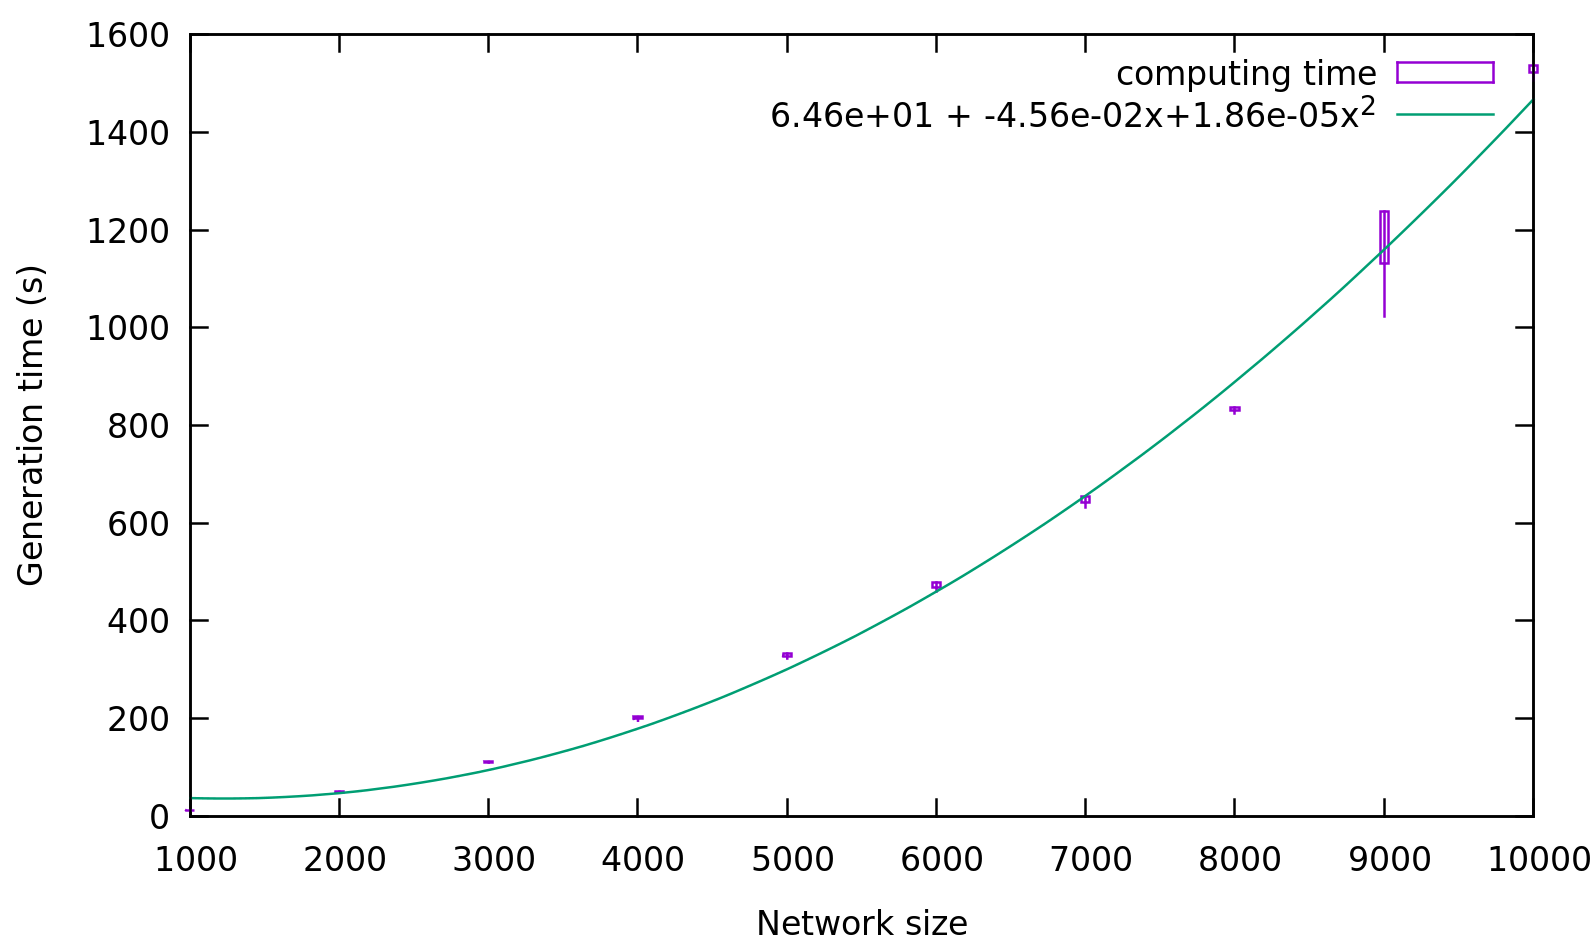
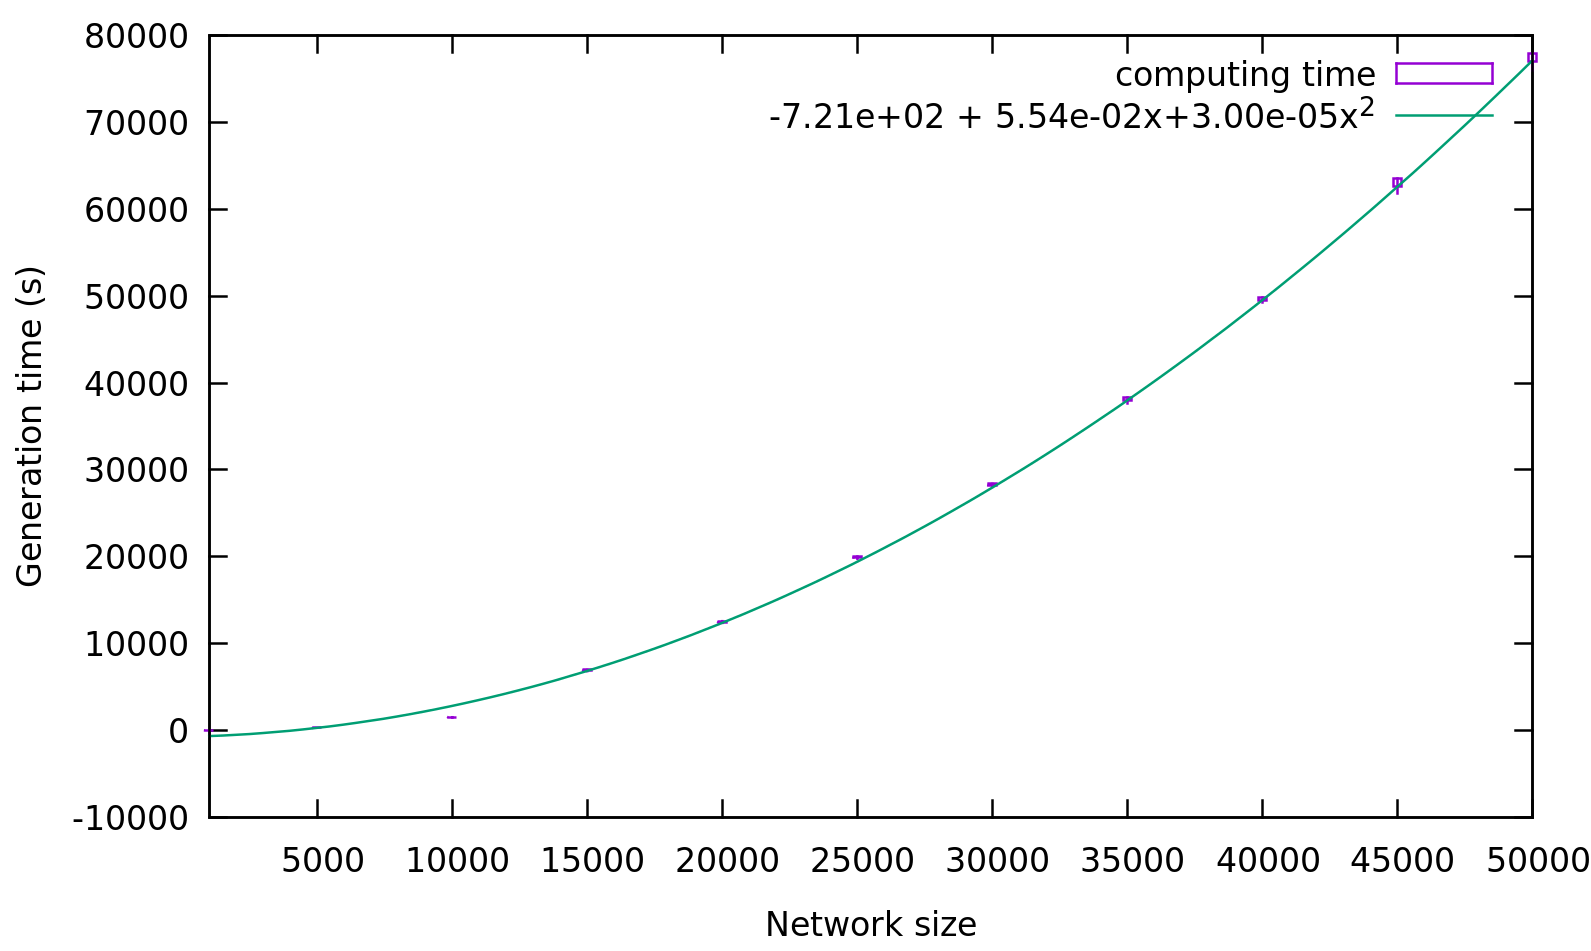
number of ASes in Readme

diff --git a/Readme.md b/Readme.md
@@ -20,7 +20,7 @@ Code ran on an Intel Core i7-5500U CPU @ 2.40GHz, and memory usage was negligibl
 
 ![Generation time](images/generation-time.png)
 
-All in all it takes roughly half an hour to generate a network with 10.000 nodes, which is reasonable, considering that the number of ASs on the Internet is in the order of 60k. Tests with larger networks are currently running and will be added in the future.
+All in all it takes a couple of minutes to generate a network with 1.000 nodes, half an hour for 10.000 nodes and 21 hours for a network with 50.000 which makes the generator usable, considering that the number of ASs on the Internet is in the order of [65k](http://www.cidr-report.org/as2.0/).
 
 ## Statistical properites
 
